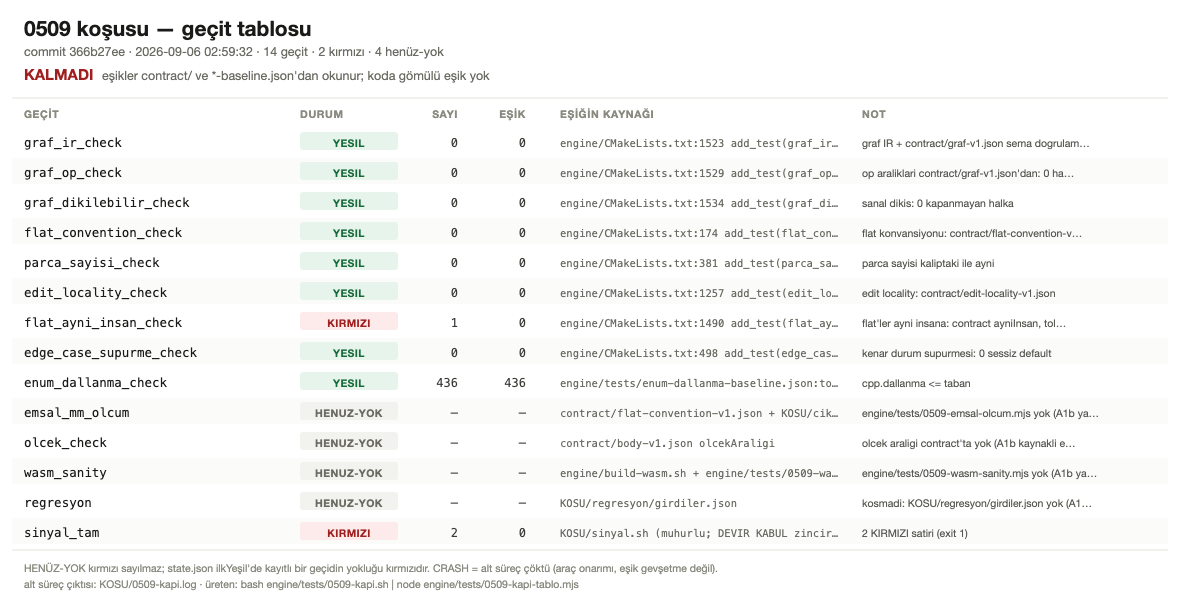
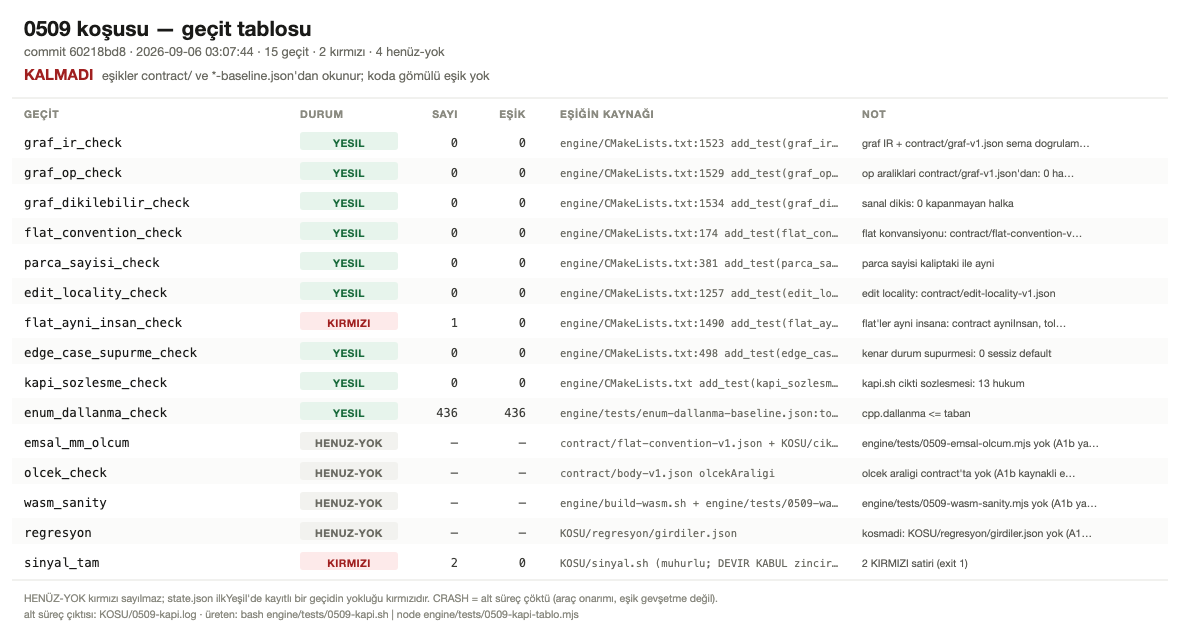
kosu: kapi.sh contract check as its own ctest, --kisa fails loudly
0509-kapi-kendi-check.sh measures kapi.sh's own output contract in <21s without invoking ctest (adding kapi.sh itself to ctest would recurse): valid json, required fields, unknown mode refused by name with exit 3, --kilit-diff without a tag exits 2, no subprocess call escapes the log. it caught a real gap: --kisa printed an empty line when python3 failed instead of a named error; now it prints KAPI_KISA_BOZUK and exits non-zero, verified by running it with a stub python3 that exits 1. registered as add_test(kapi_sozlesme_check), so it is gate 15 in kapi.sh's own table.

diff --git a/engine/tests/0509-kapi-sizinti.py b/engine/tests/0509-kapi-sizinti.py
@@ -1,0 +1,13 @@
+import re, sys
+satirlar = open(sys.argv[1]).read().split("\n")
+sizan = []
+for i, s in enumerate(satirlar):
+    if not re.match(r"\s*(ctest|node|python3)\s", s):
+        continue
+    if re.search(r"\$\(|^\s*\w+=", s):      # degiskene aliniyor
+        continue
+    blok = "\n".join(satirlar[i:i+20])
+    if "$LOG" in blok:                       # cagri blogunda log yonlendirmesi var
+        continue
+    sizan.append("%d: %s" % (i + 1, s.strip()[:70]))
+print("\n".join(sizan))
